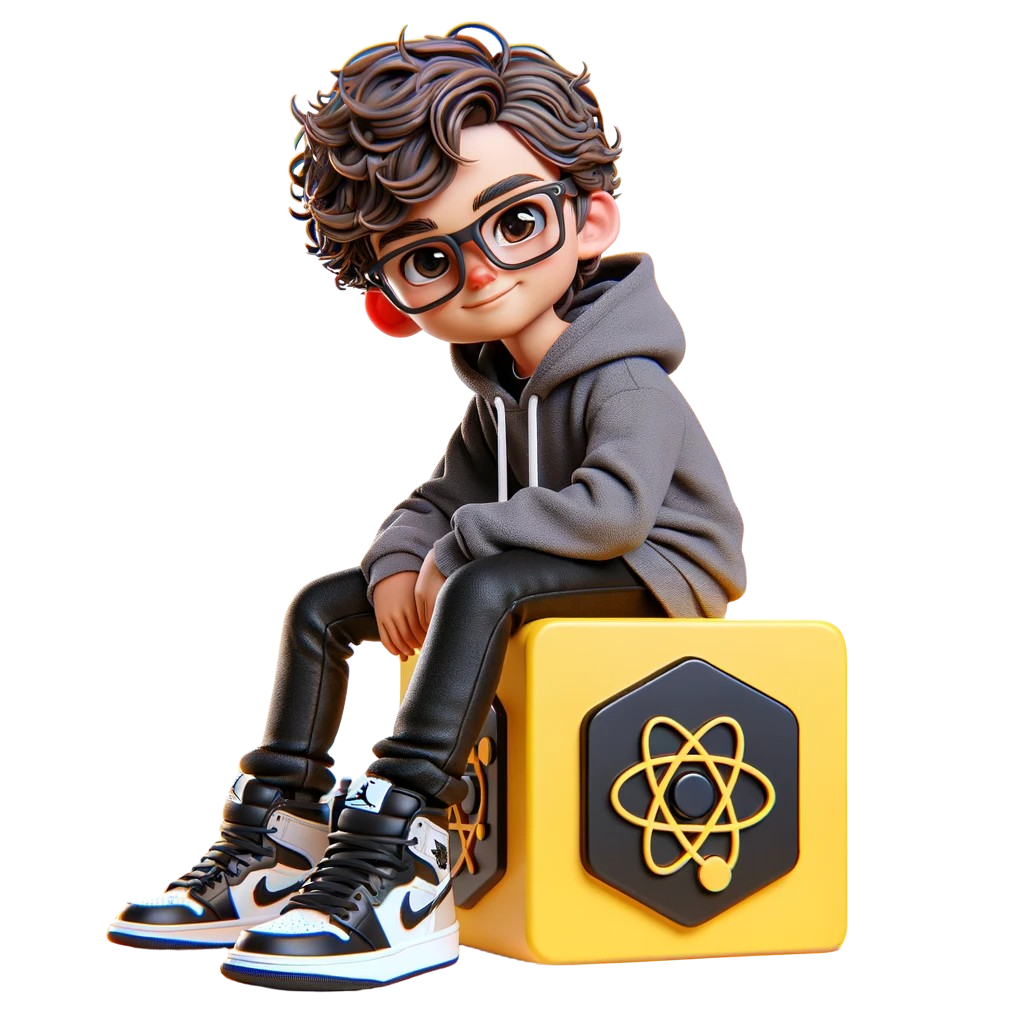
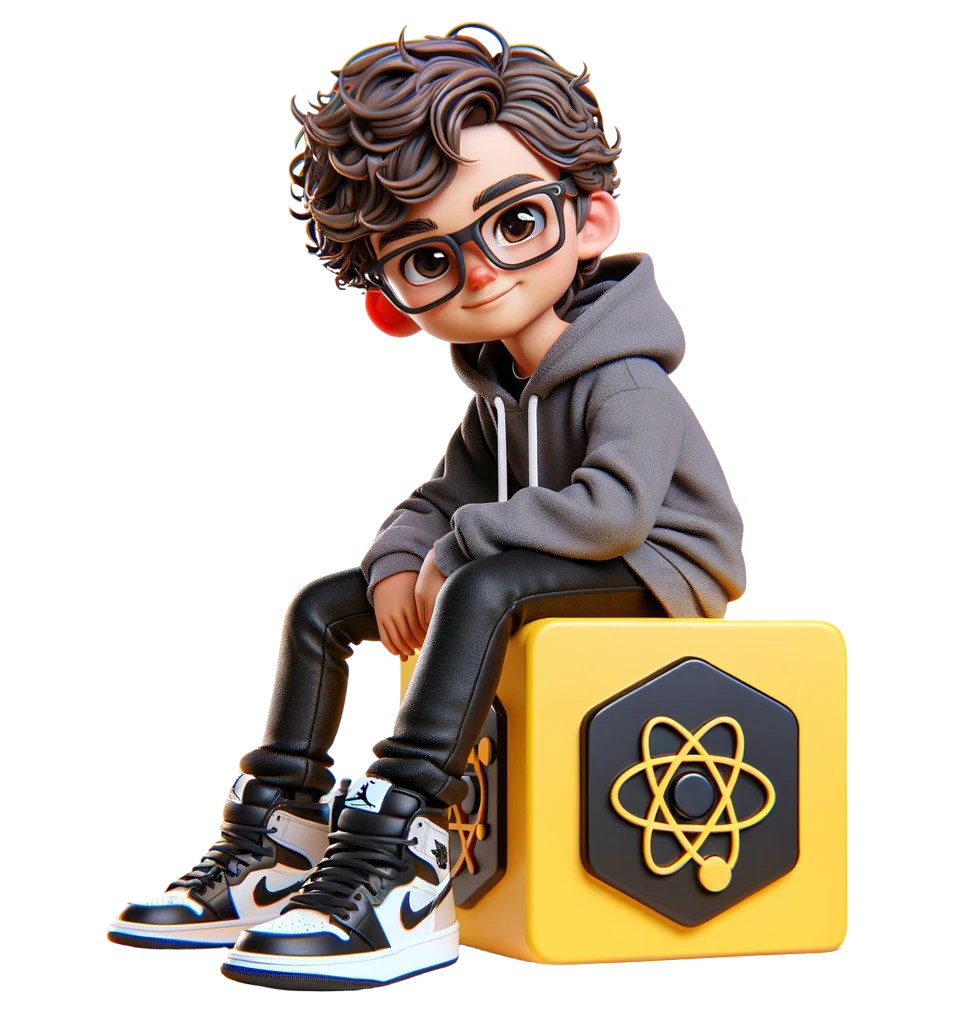
initial Header component

diff --git a/src/App.jsx b/src/App.jsx
@@ -1,9 +1,7 @@
 import { useState } from 'react';
 import './App.css';
 import char from './assets/charector.png';
-import linkedinIcon from './assets/linkedin.svg';
-import instagram from './assets/instagram.svg';
-import github from './assets/github.svg';
+import Header from './components/Header';
 
 function App() {
   const [count, setCount] = useState(0);
@@ -13,41 +11,8 @@ function App() {
       <div className='bg-black flex flex-row justify-center w-full'>
         <div className='bg-black w-[1440px] h-[1024px]'>
           <div className='relative h-[1024px] bg-[url(./assets/charrrr.png)] bg-cover bg-[50%_50%]'>
-            <div className="absolute w-[188px] top-[43px] left-[54px] [font-family:'Inter-Bold',Helvetica] font-bold text-white text-[24px] tracking-[0] leading-[normal]">
-              Maison Cuz
-            </div>
-            <div className='flex w-[407px] items-center gap-[64px] absolute top-[44px] left-[752px]'>
-              <div className='inline-flex items-start gap-[48px] relative flex-[0_0_auto]'>
-                <div className="relative w-fit mt-[-1.00px] [font-family:'Poppins-Regular',Helvetica] font-normal text-color-2 text-[18px] tracking-[0] leading-[normal]">
-                  Home
-                </div>
-                <div className="relative w-fit mt-[-1.00px] [font-family:'Poppins-Regular',Helvetica] font-normal text-color-2 text-[18px] tracking-[0] leading-[normal]">
-                  Projects
-                </div>
-                <div className="relative w-fit mt-[-1.00px] [font-family:'Poppins-Regular',Helvetica] font-normal text-color-2 text-[18px] tracking-[0] leading-[normal]">
-                  About
-                </div>
-                <div className="relative w-fit mt-[-1.00px] [font-family:'Poppins-Regular',Helvetica] font-normal text-color-2 text-[18px] tracking-[0] leading-[normal]">
-                  Contacts
-                </div>
-              </div>
-              <div className='relative flex-[0_0_auto] mr-[-88.00px]' />
-            </div>
-            <img
-              className='absolute w-[30px] h-[29px] top-[43px] left-[1234px]'
-              alt='Prime github'
-              src={github}
-            />
-            <img
-              className='absolute w-[24px] h-[24px] top-[45px] left-[1283px]'
-              alt='Akar icons linkedin'
-              src={linkedinIcon}
-            />
-            <img
-              className='absolute w-[24px] h-[24px] top-[46px] left-[1191px]'
-              alt='Instagram'
-              src={instagram}
-            />
+            <Header />
+
             <div className='absolute w-[1350px] h-[898px] top-[100px] left-[90px]'>
               <p className="absolute top-[229px] left-[12px] [font-family:'Poppins-Medium',Helvetica] font-medium text-white text-[28px] tracking-[0] leading-[normal]">
                 Hi , my name is Maison,
@@ -71,7 +36,7 @@ function App() {
                   </p>
                 </div>
                 <img
-                  className='absolute w-[861px] h-[898px] top-0 left-[489px] object-cover'
+                  className='absolute w-[861px] h-[898px] top-0 left-[450px] object-cover'
                   alt='Untitled design'
                   src={char}
                 />

diff --git a/src/components/Header.jsx b/src/components/Header.jsx
@@ -1,3 +1,47 @@
+import linkedinIcon from '../assets/linkedin.svg';
+import instagram from '../assets/instagram.svg';
+import github from '../assets/github.svg';
 export default function Header() {
-  return <header>{/* Your header content goes here */}</header>;
+  return (
+    <header className='flex flex-row py-10 px-14'>
+      <div className='basis-1/2'>
+        <div className=" [font-family:'Inter-Bold',Helvetica] font-bold text-white text-[24px] tracking-[0] leading-[normal]">
+          Maison Cuz
+        </div>
+      </div>
+      <div className='basis-1/2 flex flex-row pr-10 place-items-center'>
+        <div className="basis-1/6 relative text-center w-fit mt-[-1.00px] [font-family:'Poppins-Regular',Helvetica] font-normal text-color-2 text-[18px] tracking-[0] leading-[normal]">
+          Home
+        </div>
+        <div className="basis-1/6 relative text-center w-fit mt-[-1.00px] [font-family:'Poppins-Regular',Helvetica] font-normal text-color-2 text-[18px] tracking-[0] leading-[normal]">
+          Projects
+        </div>
+        <div className="basis-1/6 relative text-center w-fit mt-[-1.00px] [font-family:'Poppins-Regular',Helvetica] font-normal text-color-2 text-[18px] tracking-[0] leading-[normal]">
+          About
+        </div>
+        <div className="basis-1/6 relative text-center w-fit mt-[-1.00px] [font-family:'Poppins-Regular',Helvetica] font-normal text-color-2 text-[18px] tracking-[0] leading-[normal]">
+          Contacts
+        </div>
+        <div className='basis-2/6 flex flex-row-reverse gap-4 px-4 items-center'>
+          <div className='grow'></div>
+          <img
+            className='w-[24px] h-[24px] top-[45px] left-[1283px]'
+            alt='Akar icons linkedin'
+            src={linkedinIcon}
+          />
+          <img
+            className='w-[30px] h-[29px] top-[43px] left-[1234px]'
+            alt='Prime github'
+            src={github}
+          />
+          <img
+            className='w-[24px] h-[24px] top-[46px] left-[1191px]'
+            alt='Instagram'
+            src={instagram}
+          />
+          <div className='grow'></div>
+        </div>
+      </div>
+    </header>
+  );
 }
